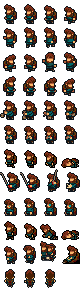
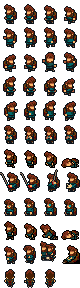
Jump Animations

diff --git a/sisao/src/Sisao/Player.cpp b/sisao/src/Sisao/Player.cpp
@@ -13,39 +13,50 @@
 
 enum PlayerAnims
 {
-	STAND_LEFT, STAND_RIGHT, MOVE_LEFT, MOVE_RIGHT
+	STAND_LEFT, STAND_RIGHT, MOVE_LEFT, MOVE_RIGHT, JUMP_LEFT, JUMP_RIGHT
 };
 
 
 void Player::init(const glm::ivec2 &tileMapPos, ShaderProgram &shaderProgram)
 {
 	bJumping = false;
-	spritesheet.loadFromFile("images/prueba.png", TEXTURE_PIXEL_FORMAT_RGBA);
-	sprite = Sprite::createSprite(glm::ivec2(32, 32), glm::vec2(0.25, 0.084), &spritesheet, &shaderProgram);
-	sprite->setNumberAnimations(4);
-
-	float x = 0.25;
+	float x = 0.21;
 	float y = 0.084;
+	spritesheet.loadFromFile("images/prueba.png", TEXTURE_PIXEL_FORMAT_RGBA);
+	sprite = Sprite::createSprite(glm::ivec2(32, 32), glm::vec2(x, y), &spritesheet, &shaderProgram);
+	sprite->setNumberAnimations(6);
 	
-		sprite->setAnimationSpeed(STAND_LEFT, 8);
+		sprite->setAnimationSpeed(STAND_LEFT, 4);
 		sprite->addKeyframe(STAND_LEFT, glm::vec2(0.f, 0.f));
 		sprite->addKeyframe(STAND_LEFT, glm::vec2(0.25f, 0.f));
 		
-		sprite->setAnimationSpeed(STAND_RIGHT, 8);
+		sprite->setAnimationSpeed(STAND_RIGHT, 4);
 		sprite->addKeyframe(STAND_RIGHT, glm::vec2(0.f, y*3));
 		sprite->addKeyframe(STAND_RIGHT, glm::vec2(0.25f, y*3));
 		
-		sprite->setAnimationSpeed(MOVE_LEFT, 8);
+		sprite->setAnimationSpeed(MOVE_LEFT, 10);
 		sprite->addKeyframe(MOVE_LEFT, glm::vec2(0.f, 0.f));
 		sprite->addKeyframe(MOVE_LEFT, glm::vec2(0.25f, 0.f));
 		sprite->addKeyframe(MOVE_LEFT, glm::vec2(0.5f, 0.0f));
 		sprite->addKeyframe(MOVE_LEFT, glm::vec2(0.75f, 0.0f));
 		
-		sprite->setAnimationSpeed(MOVE_RIGHT, 8);
+		sprite->setAnimationSpeed(MOVE_RIGHT, 10);
 		sprite->addKeyframe(MOVE_RIGHT, glm::vec2(0.f, y * 3));
 		sprite->addKeyframe(MOVE_RIGHT, glm::vec2(0.25f, y * 3));
 		sprite->addKeyframe(MOVE_RIGHT, glm::vec2(0.5f, y * 3));
 		sprite->addKeyframe(MOVE_RIGHT, glm::vec2(0.75f, y * 3));
+
+		sprite->setAnimationSpeed(JUMP_LEFT, 7);
+		sprite->addKeyframe(JUMP_LEFT, glm::vec2(0.f, y));
+		sprite->addKeyframe(JUMP_LEFT, glm::vec2(0.25f, y));
+		sprite->addKeyframe(JUMP_LEFT, glm::vec2(0.5f, y));
+		sprite->addKeyframe(JUMP_LEFT, glm::vec2(0.75f, y));
+
+		sprite->setAnimationSpeed(JUMP_RIGHT, 7);
+		sprite->addKeyframe(JUMP_RIGHT, glm::vec2(0.f, 4*y));
+		sprite->addKeyframe(JUMP_RIGHT, glm::vec2(0.25f, 4*y));
+		sprite->addKeyframe(JUMP_RIGHT, glm::vec2(0.5f, 4*y));
+		sprite->addKeyframe(JUMP_RIGHT, glm::vec2(0.75f, 4*y));
 		
 	sprite->changeAnimation(0);
 	tileMapDispl = tileMapPos;
@@ -58,10 +69,11 @@ void Player::update(int deltaTime)
 	sprite->update(deltaTime);
 	if(Game::instance().getSpecialKey(GLUT_KEY_LEFT))
 	{
-		if(sprite->animation() != MOVE_LEFT)
+		if (bJumping && sprite->animation() != JUMP_LEFT) sprite->changeAnimation(JUMP_LEFT);
+		else if (!bJumping && sprite->animation() != MOVE_LEFT)
 			sprite->changeAnimation(MOVE_LEFT);
 		posPlayer.x -= 2;
-		if(map->collisionMoveLeft(posPlayer, glm::ivec2(32, 32)))
+		if (map->collisionMoveLeft(posPlayer, glm::ivec2(32, 32)))
 		{
 			posPlayer.x += 2;
 			sprite->changeAnimation(STAND_LEFT);
@@ -69,7 +81,8 @@ void Player::update(int deltaTime)
 	}
 	else if(Game::instance().getSpecialKey(GLUT_KEY_RIGHT))
 	{
-		if(sprite->animation() != MOVE_RIGHT)
+		if (bJumping && sprite->animation() != JUMP_RIGHT) sprite->changeAnimation(JUMP_RIGHT);
+		else if(!bJumping && sprite->animation() != MOVE_RIGHT)
 			sprite->changeAnimation(MOVE_RIGHT);
 		posPlayer.x += 2;
 		if(map->collisionMoveRight(posPlayer, glm::ivec2(32, 32)))
@@ -78,7 +91,7 @@ void Player::update(int deltaTime)
 			sprite->changeAnimation(STAND_RIGHT);
 		}
 	}
-	else
+	else if (!bJumping)
 	{
 		if(sprite->animation() == MOVE_LEFT)
 			sprite->changeAnimation(STAND_LEFT);
@@ -104,6 +117,8 @@ void Player::update(int deltaTime)
 	else
 	{
 		posPlayer.y += FALL_STEP;
+		if (sprite->animation() == JUMP_LEFT) sprite->changeAnimation(STAND_LEFT);
+		else if (sprite->animation() == JUMP_RIGHT) sprite->changeAnimation(STAND_RIGHT);
 		if(map->collisionMoveDown(posPlayer, glm::ivec2(32, 32), &posPlayer.y))
 		{
 			if(Game::instance().getSpecialKey(GLUT_KEY_UP))
@@ -111,6 +126,9 @@ void Player::update(int deltaTime)
 				bJumping = true;
 				jumpAngle = 0;
 				startY = posPlayer.y;
+				if (sprite->animation() == MOVE_LEFT || sprite->animation() == STAND_LEFT)
+					sprite->changeAnimation(JUMP_LEFT);
+				else sprite->changeAnimation(JUMP_RIGHT);
 			}
 		}
 	}
